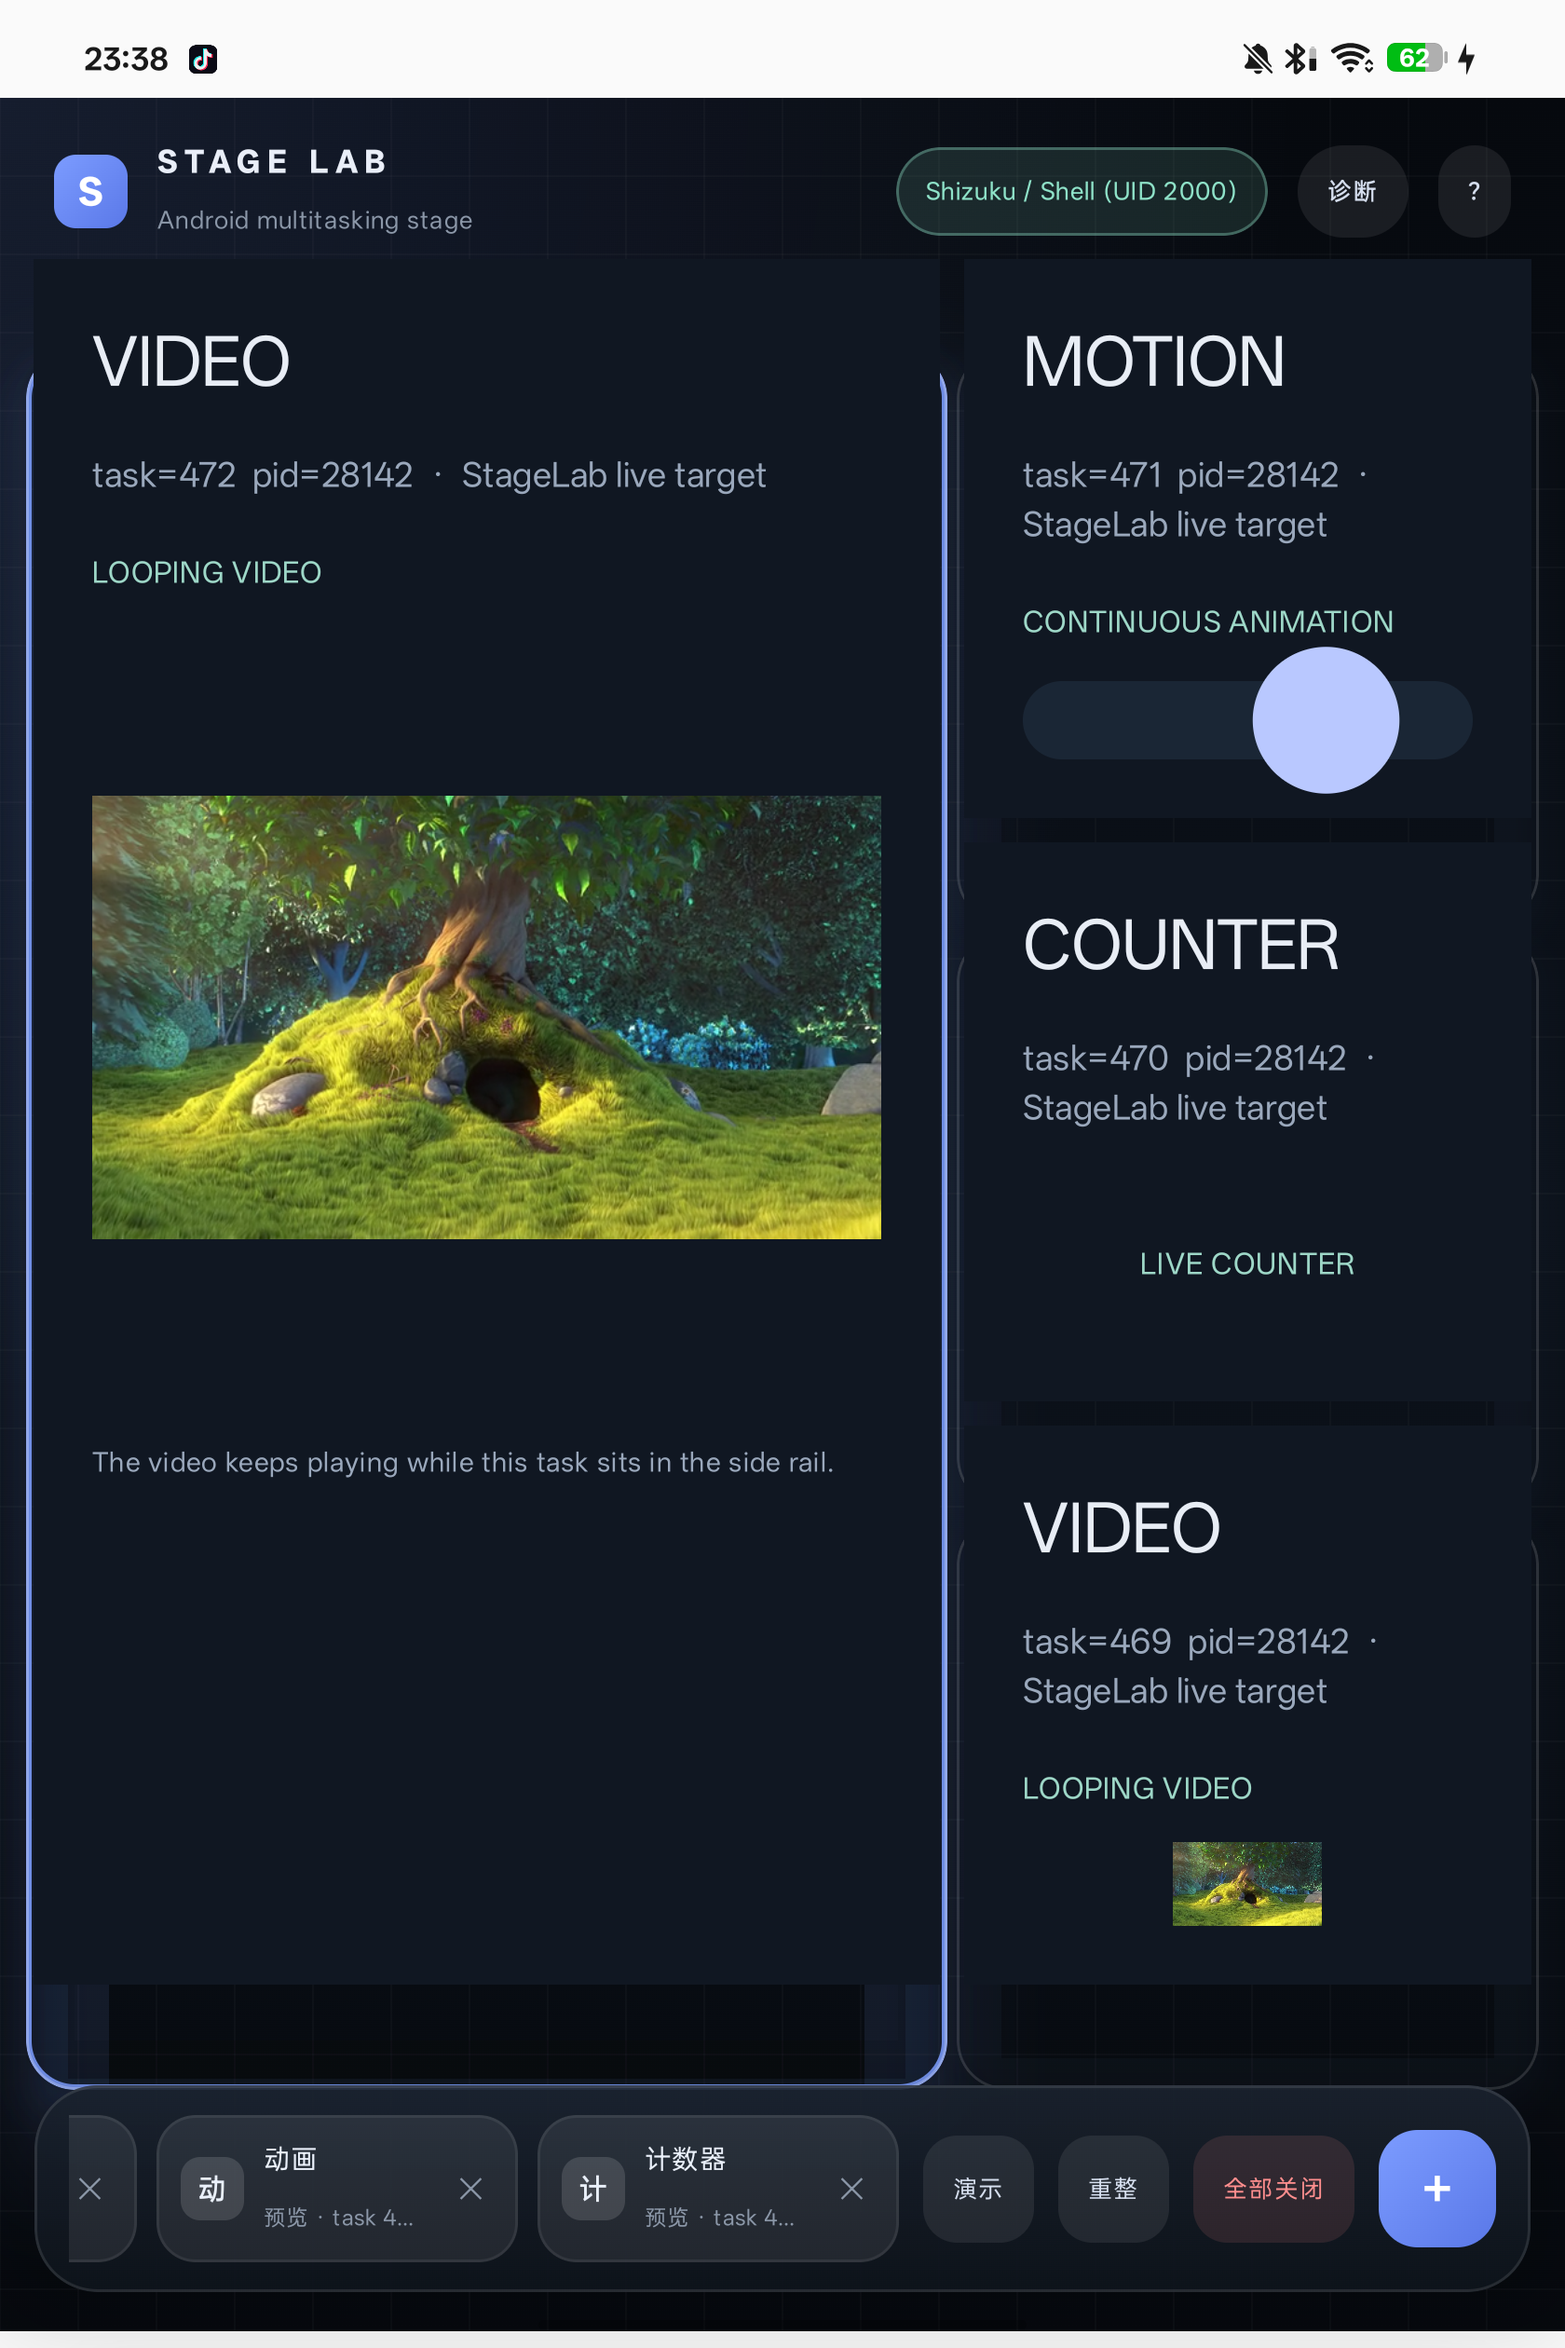
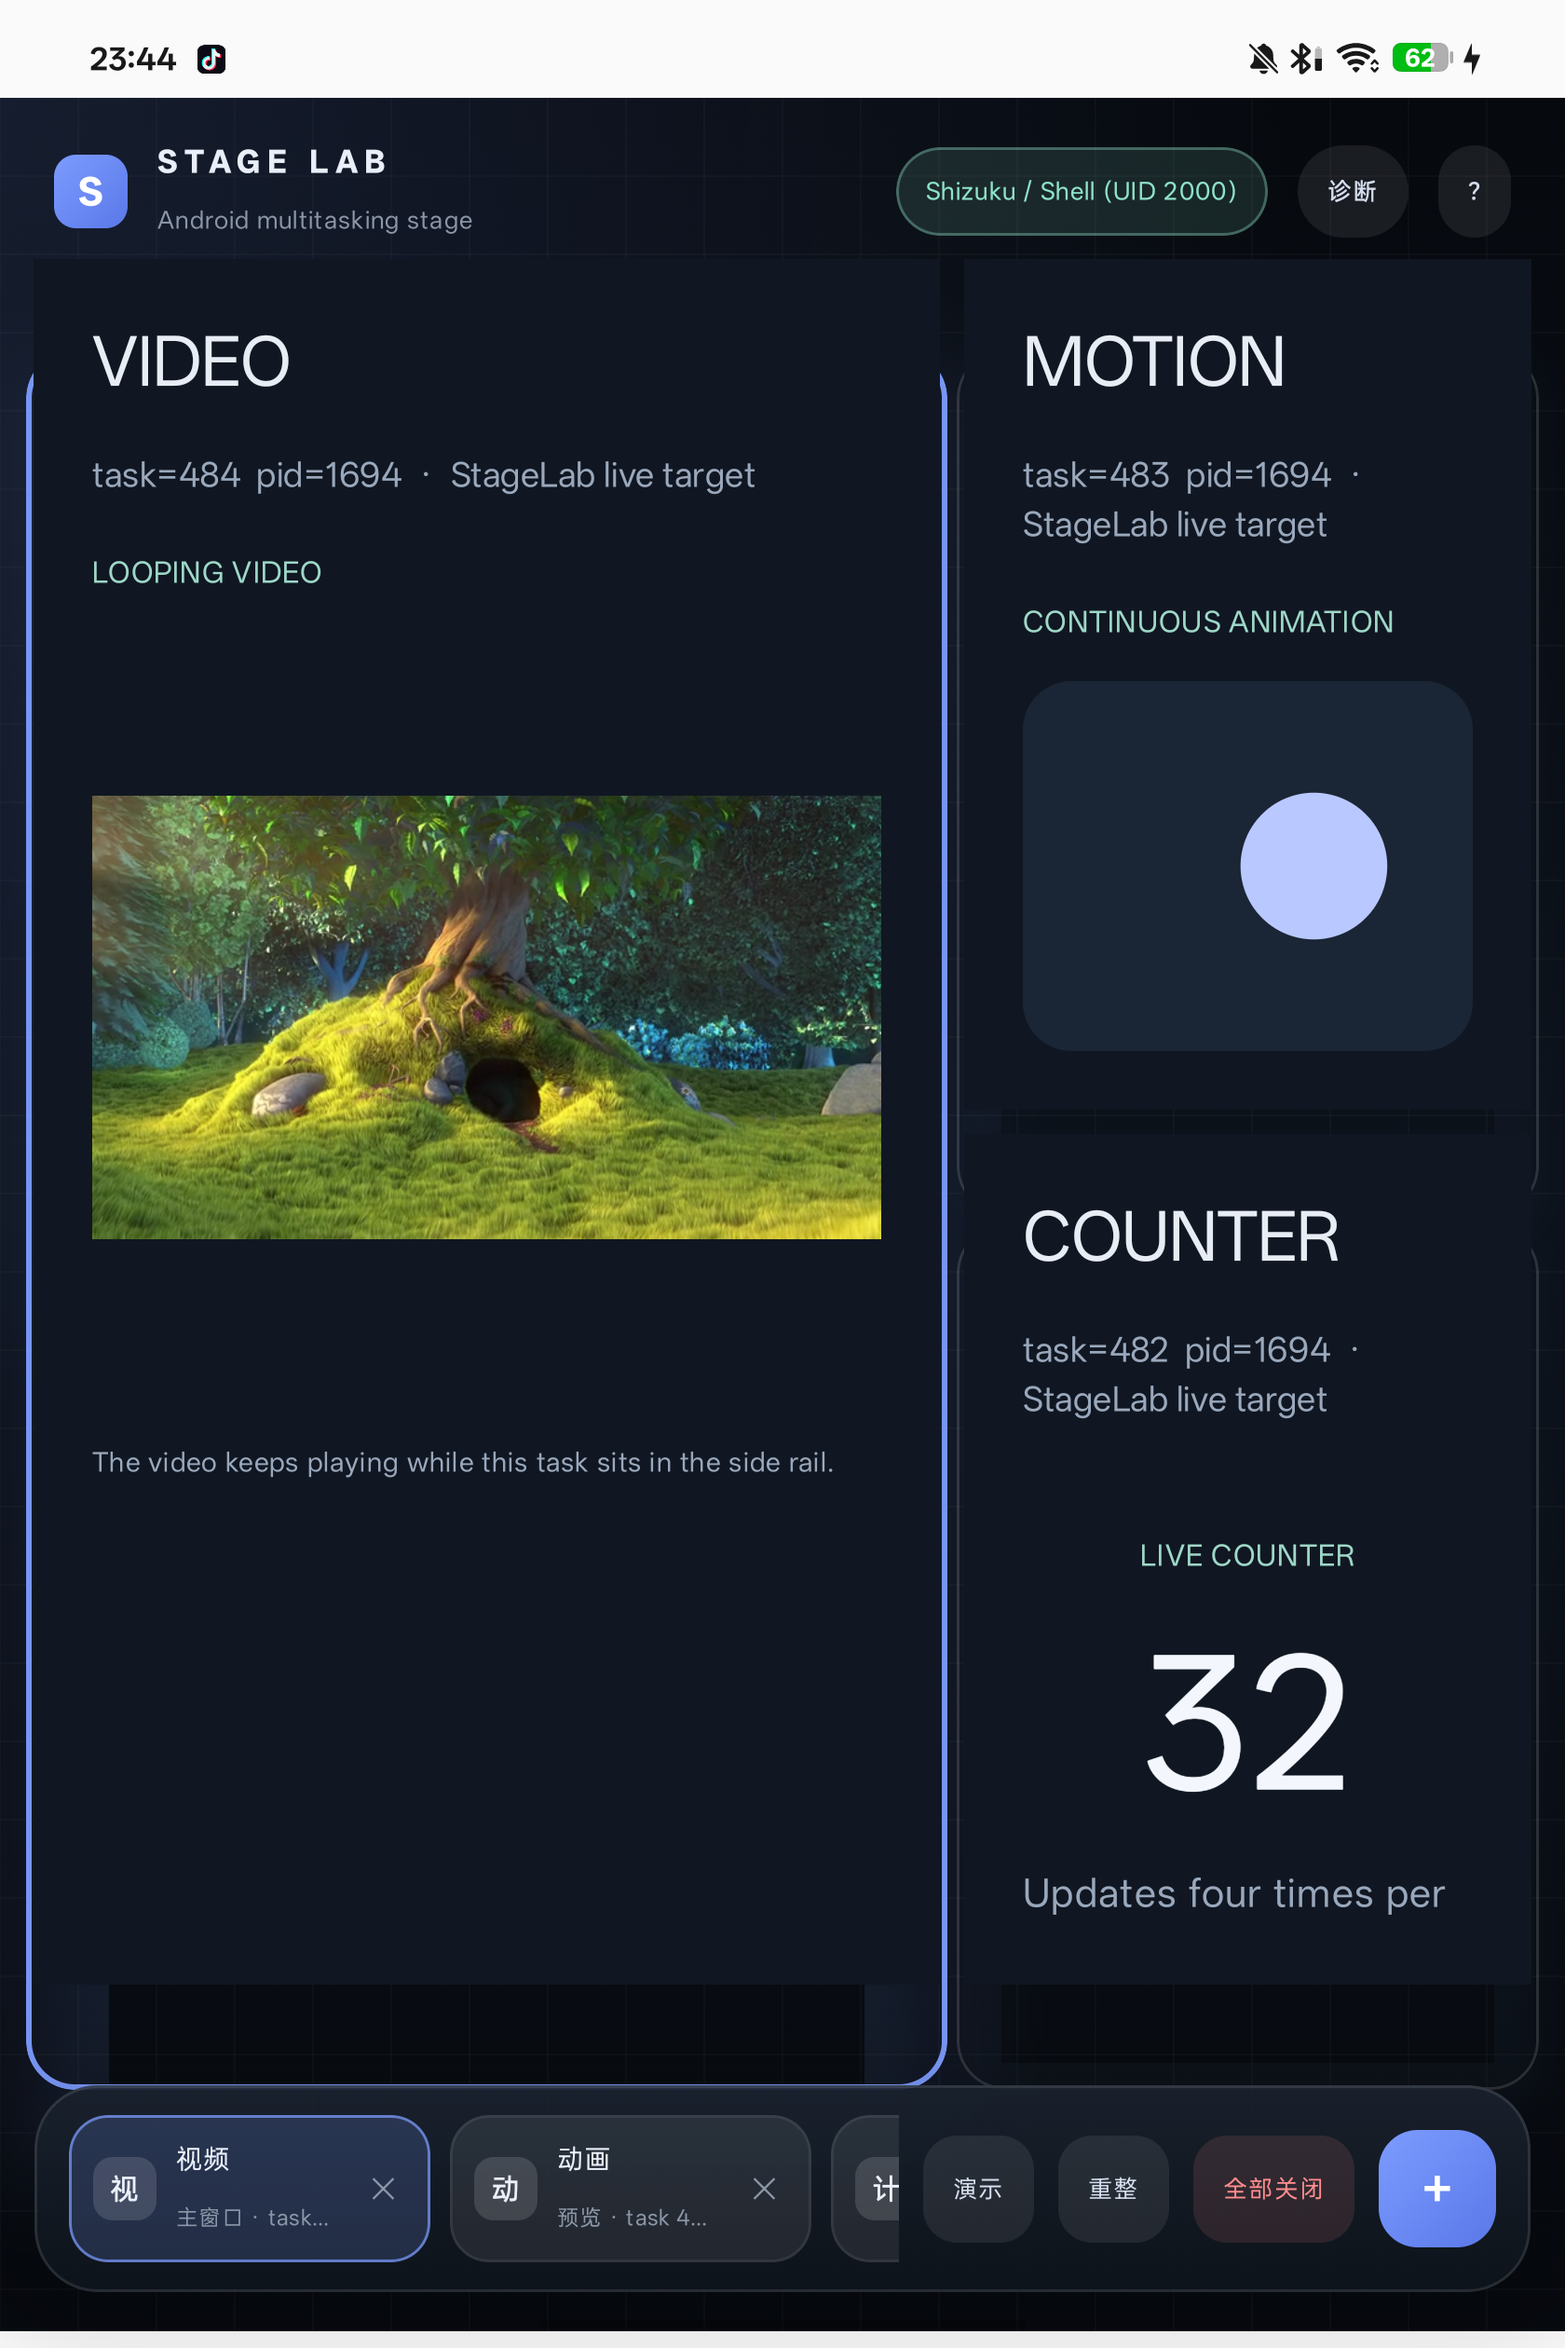
fix: compact rail slots after a window closes; keep the main chip visible in the dock

diff --git a/app/src/main/java/dev/stagelab/android/core/stage/StageRuntime.kt b/app/src/main/java/dev/stagelab/android/core/stage/StageRuntime.kt
@@ -1,4 +1,4 @@
-package dev.stagelab.android.core.stage
+package dev.stagelab.android.core.stage
 
 import android.content.Context
 import android.util.Log
@@ -160,7 +160,8 @@ object StageRuntime {
     /** Slot count depends on how many windows are open, so re-run the geometry on every change. */
     private fun recomputeLayout() {
         if (viewportWidth <= 0 || viewportHeight <= 0) return
-        val previewCount = (synchronized(windows) { windows.size } - 1).coerceAtLeast(0)
+        val aliveWindows = synchronized(windows) { windows.count { it.alive } }
+        val previewCount = (aliveWindows - 1).coerceAtLeast(0)
         viewport = StageLayoutEngine.compute(
             widthPx = viewportWidth,
             heightPx = viewportHeight,
@@ -663,13 +664,15 @@ object StageRuntime {
         applying = true
         try {
             val snapshot = synchronized(windows) { windows.toList() }
-            snapshot.forEachIndexed { index, window ->
-                if (!window.alive) return@forEachIndexed
-                val target = if (index == 0) {
+            var slot = 0
+            snapshot.forEach { window ->
+                if (!window.alive) return@forEach
+                val target = if (slot == 0) {
                     layout.main
                 } else {
-                    layout.previews.getOrNull(index - 1)
+                    layout.previews.getOrNull(slot - 1)
                 }
+                slot++
                 if (target == null) {
                     // No rail slot left (landscape fits fewer previews). Park the task behind the
                     // main window: it stays alive and keeps its state, but is fully covered.
@@ -684,9 +687,9 @@ object StageRuntime {
                         if (reply.optBoolean("ok")) window.lastBounds = layout.main
                         Log.i(TAG, "parked ${window.title} behind main")
                     }
-                    return@forEachIndexed
+                    return@forEach
                 }
-                if (window.lastBounds == target) return@forEachIndexed
+                if (window.lastBounds == target) return@forEach
                 val reply = call(
                     transport,
                     JSONObject().put("cmd", "bounds")

diff --git a/app/src/main/java/dev/stagelab/android/ui/StageManagerScreen.kt b/app/src/main/java/dev/stagelab/android/ui/StageManagerScreen.kt
@@ -1,4 +1,4 @@
-package dev.stagelab.android.ui
+package dev.stagelab.android.ui
 
 import androidx.compose.animation.AnimatedVisibility
 import androidx.compose.animation.core.animateFloatAsState
@@ -25,6 +25,7 @@ import androidx.compose.foundation.layout.size
 import androidx.compose.foundation.layout.width
 import androidx.compose.foundation.lazy.LazyRow
 import androidx.compose.foundation.lazy.items
+import androidx.compose.foundation.lazy.rememberLazyListState
 import androidx.compose.foundation.shape.CircleShape
 import androidx.compose.foundation.shape.RoundedCornerShape
 import androidx.compose.material3.CircularProgressIndicator
@@ -281,6 +282,10 @@ private fun Dock(
     onDemo: () -> Unit
 ) {
     val density = LocalDensity.current
+    val chipListState = rememberLazyListState()
+    androidx.compose.runtime.LaunchedEffect(state.windows.firstOrNull()?.id, state.windows.size) {
+        runCatching { chipListState.scrollToItem(0) }
+    }
     Box(
         modifier = Modifier
             .fillMaxSize()
@@ -305,6 +310,7 @@ private fun Dock(
         ) {
             LazyRow(
                 modifier = Modifier.weight(1f),
+                state = chipListState,
                 horizontalArrangement = Arrangement.spacedBy(8.dp),
                 verticalAlignment = Alignment.CenterVertically
             ) {
